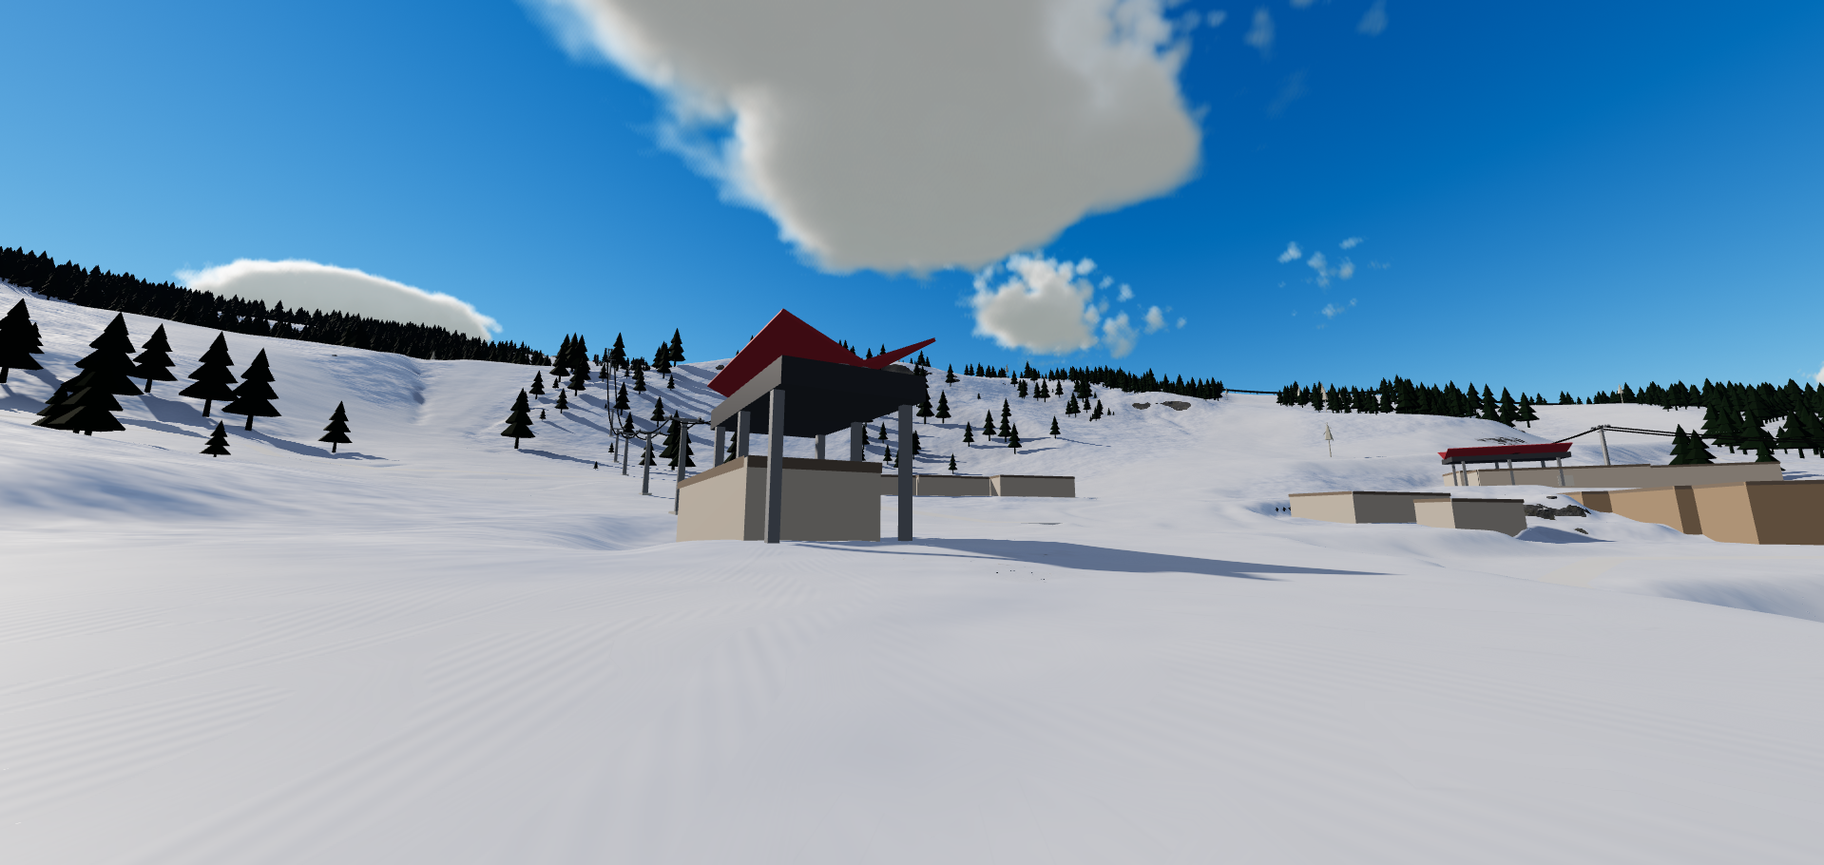
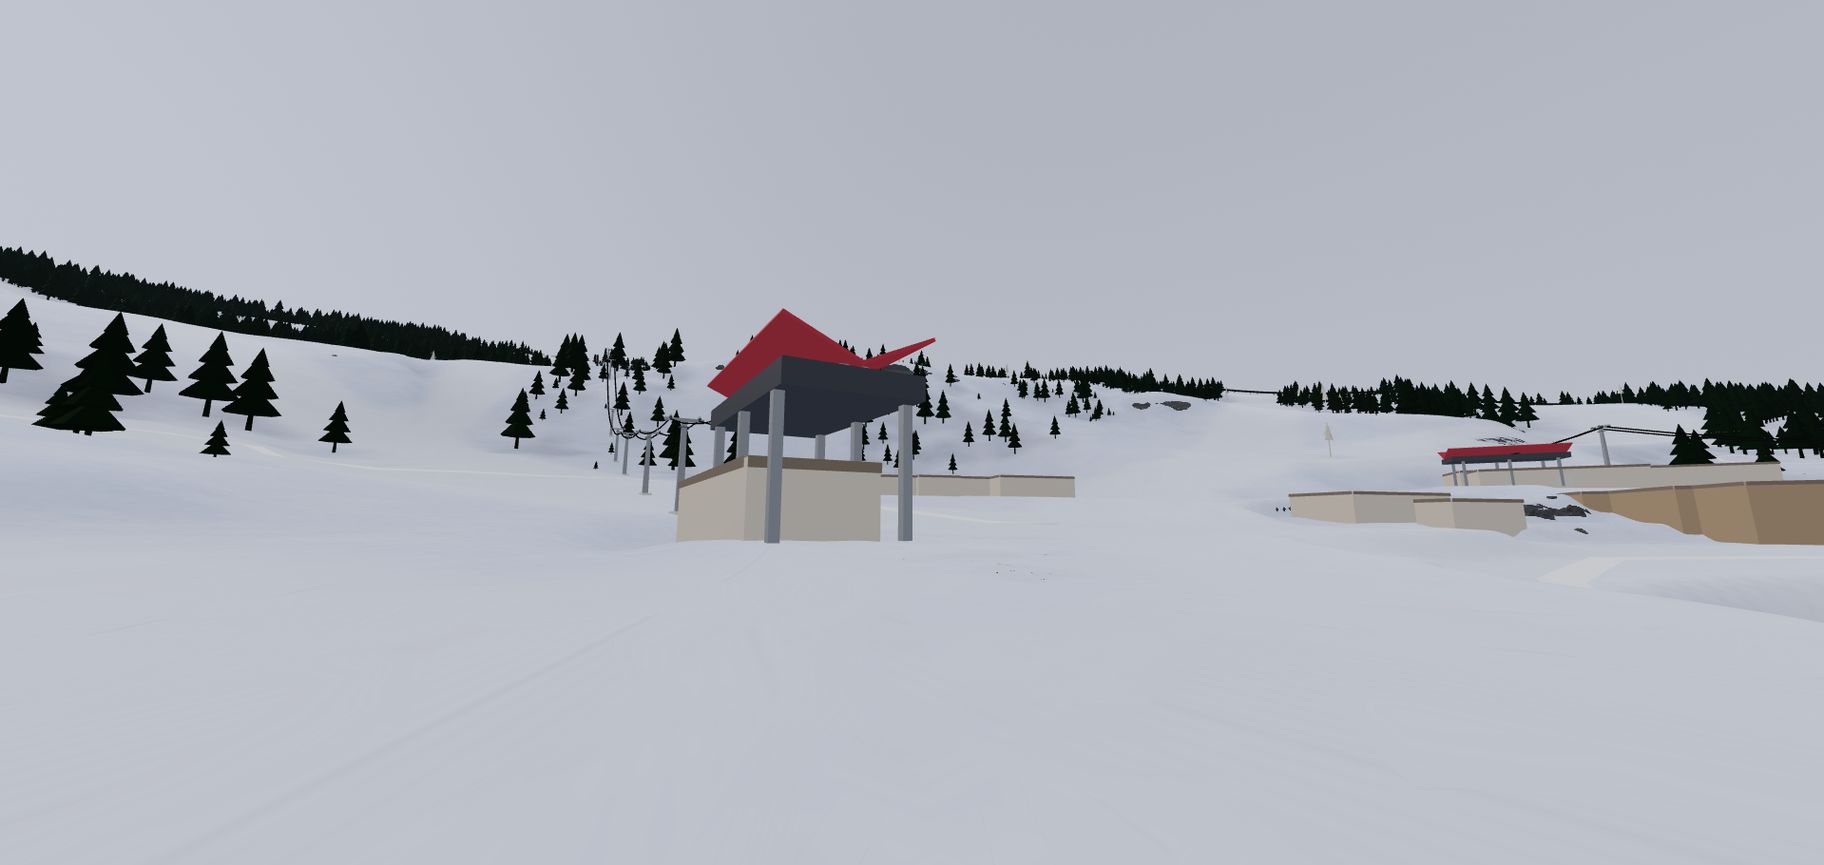
FEAT-078: overcast and light-snow weather presets for flat-light photo pairs
Weather gains "Overcast (flat light)" and "Overcast, light snow" (flurries).
Overcast draws a grey deck on the sky dome (no sun disc, faint glow where the
sun is), dims the sun to a fifth with shadow.intensity 0 (no recompile), turns
the hemisphere fill up and grey, flattens and roughens the snow (no sheen),
and thickens the haze in the deck's grey. Flurries adds a sixth of the storm's
flakes without its visibility cut.

?weather=<preset> overrides the setting for the session without saving it, and
shoot_spots.mjs applies a spot's or view's "weather" from spot.json through
__sim.setWeather. Mid-Vail and Yonder are tagged overcast, Mongolia and Prima
flurries, and re-shot: the Mid-Vail south view now measures sky (184,189,199)
vs the photo's (181,187,197) and snow (190,194,203) vs (190,195,206).

diff --git a/game/src/main.ts b/game/src/main.ts
@@ -4,7 +4,7 @@ import { Terrain } from './terrain/Terrain';
 import { Rider } from './sim/Rider';
 import { Collider } from './sim/Collider';
 import { Bridges } from './world/Bridges';
-import { Clouds } from './world/Clouds';
+import { Clouds, isOvercast, parseWeather, type CloudCover } from './world/Clouds';
 import { Snow } from './world/Snow';
 import { Controls } from './sim/Controls';
 import { Vegetation, setVegetationBudget, setVegetationDensity } from './world/Vegetation';
@@ -186,18 +186,28 @@ function runSession(pack: Pack, renderer: THREE.WebGLRenderer, canvas: HTMLCanva
       env.setSun(p.azimuth, Math.max(-5, p.elevation));
     };
     let sunClock = 0;
+    // ?weather=overcast (FEAT-078) and __sim.setWeather (shoot_spots.mjs, per spot) override the
+    // saved Weather setting for this session without saving it; picking a Weather in the menu clears it
+    let weatherOverride: CloudCover | null = parseWeather(params.get('weather'));
+    const initialWeather = weatherOverride;
 
     // ---------------------------------------------------------------- settings application
     const applySettings = (s: Settings, what: string): void => {
       applySun(s);
-      clouds.configure(s.clouds ?? 'scattered', s.quality);
-      env.setBluebird(s.clouds !== 'storm'); // deep blue sky behind the clouds too; only the storm is grey
-      const storm = s.clouds === 'storm';
+      if (what === 'clouds') weatherOverride = null;
+      const weather = weatherOverride ?? s.clouds ?? 'scattered';
+      clouds.configure(weather, s.quality);
+      const storm = weather === 'storm', overcast = isOvercast(weather);
+      env.setBluebird(!storm && !overcast); // deep blue sky behind the clouds too; storm and overcast are grey
       env.setStorm(storm);
-      terrain.setFlatLight(storm ? 1 : 0); // storm: flat light, the snow surface reads poorly
+      env.setOvercast(overcast);
+      // flat light: the snow surface reads poorly under a storm, a little less under overcast
+      terrain.setFlatLight(storm ? 1 : overcast ? 0.85 : 0);
       env.setValleyFog(!!s.valleyFog || params.has('valleyfog')); // ?valleyfog forces it on for render checks
-      snow.points.visible = storm;
-      snow.setCount(s.quality === 'high' ? 16000 : s.quality === 'medium' ? 9000 : 4500);
+      // falling snow: the storm, or light flurries under overcast (a sixth of the flakes, no visibility cut)
+      snow.points.visible = storm || weather === 'flurries';
+      const flakes = s.quality === 'high' ? 16000 : s.quality === 'medium' ? 9000 : 4500;
+      snow.setCount(storm ? flakes : Math.round(flakes / 6));
       // limited render distance in the storm: nothing past the fog is drawn
       cam.camera.far = storm ? 1200 : 300000; cam.camera.updateProjectionMatrix();
       audio.setVolumes(s.mute ? 0 : s.sfx, s.mute ? 0 : s.music);
@@ -222,7 +232,7 @@ function runSession(pack: Pack, renderer: THREE.WebGLRenderer, canvas: HTMLCanva
       if (!s.timeTrials) trial.cancel('Time trials off');
       refreshCourseFlags();
       rider.discipline = s.discipline;
-      labels.visible = s.showLabels && s.clouds !== 'storm'; // peaks are hidden in the storm
+      labels.visible = s.showLabels && !storm; // peaks are hidden in the storm
       map.metric = s.units === 'metric';
       if (what === 'camera' || what === 'reset') cam.mode = s.camera;
     };
@@ -542,7 +552,9 @@ function runSession(pack: Pack, renderer: THREE.WebGLRenderer, canvas: HTMLCanva
         (rider.onGround || rider.onFoot ? '' : ` &nbsp; AIR ${rider.airTime.toFixed(1)}s`) + (rider.crashed > 0 ? ' &nbsp; CRASH' : '') +
         `<br><span class="dim">${fps.toFixed(0)} fps &middot; ${terrain.stats.chunks} chunks &middot; ${(terrain.stats.triangles / 1000).toFixed(0)}k tris &middot; trees ${veg.stats.instances} &middot; cam ${cam.mode}` +
         ` &middot; pos ${rider.x.toFixed(0)}, ${rider.y.toFixed(0)}</span>`;
-      (window as any).__sim = { rider, riderView, terrain, pack, cam, veg, fps, map, liftRide, lifts, setSpawn, settings, bootprints, tracks, eyeAt };
+      (window as any).__sim = { rider, riderView, terrain, pack, cam, veg, fps, map, liftRide, lifts, setSpawn, settings, bootprints, tracks, eyeAt,
+        /** shoot_spots.mjs: a spot's weather, or null for the page's own (?weather= else the setting) */
+        setWeather: (w: string | null) => { weatherOverride = parseWeather(w) ?? initialWeather; applySettings(settings, 'weather'); } };
       if (!headless) requestAnimationFrame(frame);
     }
 

diff --git a/game/src/world/Atmosphere.ts b/game/src/world/Atmosphere.ts
@@ -89,6 +89,7 @@ uniform sampler2D uSkyView;
 uniform vec4 uAtmo[10];
 uniform vec3 uSunDisc;
 uniform vec2 uSunCos;
+uniform vec4 uDeck; // overcast: horizon grey (display), w = 1 when on
 varying vec3 vDir;
 ${ATMO_GLSL}
 void main() {
@@ -106,6 +107,14 @@ void main() {
   // at and below the horizon: exactly the colour the terrain fog converges to in this azimuth
   float k = exp(-max(rd.y, 0.0) * 30.0) * (1.0 - disc);
   gl_FragColor.rgb = mix(gl_FragColor.rgb, atmoHorizon(rd), k);
+  if (uDeck.w > 0.5) {
+    // overcast: a uniform grey deck, a little darker overhead, no sun disc, only a faint brighter
+    // patch where the sun is behind the cloud (kept off the horizon so distant ridges still meet it)
+    float up = max(rd.y, 0.0);
+    vec3 deck = uDeck.rgb * mix(1.0, 0.95, smoothstep(0.0, 0.8, up));
+    deck += uDeck.rgb * 0.07 * pow(max(dot(rd, s), 0.0), 4.0) * smoothstep(0.0, 0.25, up);
+    gl_FragColor.rgb = deck;
+  }
   gl_FragColor.rgb += (fract(sin(dot(gl_FragCoord.xy, vec2(12.9898, 78.233))) * 43758.5453) - 0.5) / 255.0;
 }`;
 
@@ -124,6 +133,10 @@ export interface AtmoState {
   stormColor: THREE.Color;
   /** morning valley fog layer on */
   valleyFog: boolean;
+  /** full overcast (FEAT-078): grey deck instead of the sky, greyer and denser haze */
+  overcast: boolean;
+  /** overcast deck colour at the horizon (display) */
+  deckColor: THREE.Color;
 }
 
 export class Atmosphere {
@@ -152,7 +165,7 @@ export class Atmosphere {
     this.lut.colorSpace = THREE.NoColorSpace;
     this.mat = new THREE.ShaderMaterial({
       vertexShader: skyVert, fragmentShader: skyFrag,
-      uniforms: { uSkyView: { value: this.lut }, uAtmo: ATMO_UNIFORM, uSunDisc: { value: new THREE.Vector3() }, uSunCos: { value: new THREE.Vector2(Math.cos(0.0085), Math.cos(0.0072)) } },
+      uniforms: { uSkyView: { value: this.lut }, uAtmo: ATMO_UNIFORM, uSunDisc: { value: new THREE.Vector3() }, uSunCos: { value: new THREE.Vector2(Math.cos(0.0085), Math.cos(0.0072)) }, uDeck: { value: new THREE.Vector4() } },
       side: THREE.BackSide, depthWrite: false,
     });
     this.sky = new THREE.Mesh(new THREE.BoxGeometry(1000, 1000, 1000), this.mat);
@@ -208,6 +221,7 @@ export class Atmosphere {
       if (i === 2) this.hazeLinear.setRGB(L[0], L[1], L[2]);
       toDisplay(L, st.exposure, D);
       if (st.storm) { D[0] = st.stormColor.r; D[1] = st.stormColor.g; D[2] = st.stormColor.b; }
+      else if (st.overcast) { D[0] = st.deckColor.r; D[1] = st.deckColor.g; D[2] = st.deckColor.b; }
       ATMO[8 + i * 4] = D[0]; ATMO[9 + i * 4] = D[1]; ATMO[10 + i * 4] = D[2];
       if (i === 2) this.hazeDisplay.setRGB(D[0], D[1], D[2]);
     }
@@ -216,6 +230,7 @@ export class Atmosphere {
     const hz = toDisplay([THREE.MathUtils.lerp(this.hazeLinear.r, hl * this.sunColor.r, 0.6), THREE.MathUtils.lerp(this.hazeLinear.g, hl * (0.5 + 0.5 * this.sunColor.g), 0.6), THREE.MathUtils.lerp(this.hazeLinear.b, hl * (0.4 + 0.6 * this.sunColor.b), 0.6)], st.exposure, [0, 0, 0]);
     ATMO[36] = hz[0]; ATMO[37] = hz[1]; ATMO[38] = hz[2]; ATMO[39] = 0.6;
 
+    (this.mat.uniforms.uDeck.value as THREE.Vector4).set(st.deckColor.r, st.deckColor.g, st.deckColor.b, st.overcast ? 1 : 0);
     if (st.storm) {
       // whiteout: uniform dense fog, visibility about 400 m, no air layer or valley structure
       ATMO[0] = 0.0103; ATMO[1] = 0; ATMO[2] = 0; ATMO[3] = 0;
@@ -225,6 +240,11 @@ export class Atmosphere {
     }
     // valley haze: about 35 km visibility scale at the valley floor, a tenth of that density 1 km up
     ATMO[0] = (st.bluebird ? 1 : 2) / 35000; ATMO[1] = 1 / 450; ATMO[2] = this.valleyY; ATMO[3] = 1.6;
+    if (st.overcast) {
+      // overcast: thicker, deeper haze in the deck's grey, so ridges a few km off go soft and grey
+      ATMO[0] = 5 / 35000; ATMO[1] = 1 / 1100;
+      ATMO[36] = st.deckColor.r; ATMO[37] = st.deckColor.g; ATMO[38] = st.deckColor.b; ATMO[39] = 1;
+    }
     // morning valley fog: a thick layer a hundred metres deep that burns off as the sun climbs
     const fog = st.valleyFog ? 0.15 + 0.85 * (1 - THREE.MathUtils.smoothstep(st.sunElevationDeg, 8, 40)) : 0;
     ATMO[32] = fog / 500; ATMO[33] = 1 / 100; ATMO[34] = this.valleyY + 150;

diff --git a/game/src/world/Sky.ts b/game/src/world/Sky.ts
@@ -63,7 +63,7 @@ export class Environment {
     this.disableCSM();
     this.csm = new CSM({ camera, parent: this.scene, cascades, maxFar: 1200, mode: 'practical', shadowMapSize: mapSize, shadowBias: -0.00015, lightDirection: this.sunDir.clone().negate(), lightIntensity: this.sun.intensity, lightMargin: 300, lightNear: 1, lightFar: 3000 });
     this.csm.fade = true;
-    for (const l of this.csm.lights) { l.shadow.normalBias = 0.5; l.color.copy(this.sun.color); }
+    for (const l of this.csm.lights) { l.shadow.normalBias = 0.5; l.shadow.intensity = this.sun.shadow.intensity; l.color.copy(this.sun.color); }
     for (const m of this.registered) this.setupCSM(m);
     this.csm.updateFrustums();
   }
@@ -105,6 +105,10 @@ export class Environment {
   storm = false;
   readonly stormDome = new THREE.Mesh(new THREE.SphereGeometry(1000, 24, 12), new THREE.MeshBasicMaterial({ side: THREE.BackSide, fog: true, depthWrite: false }));
   setStorm(on: boolean): void { this.storm = on; this.setSun(this.lastSun[0], this.lastSun[1]); }
+  /** overcast (FEAT-078): grey cloud deck, no sun disc, soft shadowless light, flat snow, more haze; the sky still reaches the horizon */
+  overcast = false;
+  setOvercast(on: boolean): void { this.overcast = on; this.setSun(this.lastSun[0], this.lastSun[1]); }
+  private readonly deckColor = new THREE.Color();
   /** morning valley fog layer (burns off as the sun climbs) */
   valleyFog = false;
   setValleyFog(on: boolean): void { this.valleyFog = on; this.setSun(this.lastSun[0], this.lastSun[1]); }
@@ -122,7 +126,9 @@ export class Environment {
     if (this.renderer) this.renderer.toneMappingExposure = exposure;
     const g = 0.35 + 0.55 * up;
     this.stormColor.setRGB(0.8 * g, 0.82 * g, 0.86 * g);
-    this.atmo.update({ sunDir: this.sunDir, sunElevationDeg: elevationDeg, exposure, bluebird: this.bluebird, storm: this.storm, stormColor: this.stormColor, valleyFog: this.valleyFog });
+    const gd = 0.3 + 0.7 * up;
+    this.deckColor.setRGB(0.72 * gd, 0.74 * gd, 0.78 * gd); // the Mid-Vail photo's sky, about sRGB (182, 187, 197)
+    this.atmo.update({ sunDir: this.sunDir, sunElevationDeg: elevationDeg, exposure, bluebird: this.bluebird, storm: this.storm, stormColor: this.stormColor, valleyFog: this.valleyFog, overcast: this.overcast && !this.storm, deckColor: this.deckColor });
     this.sun.color.copy(this.atmo.sunColor);
     if (this.csm) {
       this.csm.lightDirection.copy(this.sunDir).negate();
@@ -142,7 +148,17 @@ export class Environment {
       this.hemi.intensity = 0.5 + 0.9 * up;
       this.hemi.color.setRGB(0.86, 0.88, 0.92);
       (this.stormDome.material as THREE.MeshBasicMaterial).color.copy(this.stormColor);
+    } else if (this.overcast) {
+      // the deck diffuses the sun: a weak directional term keeps some form, the grey sky does the rest
+      this.sun.intensity *= 0.2;
+      if (this.csm) for (const l of this.csm.lights) l.intensity = this.sun.intensity;
+      this.hemi.intensity = 0.6 + 1.8 * up; // snow a shade brighter than the deck, as in the photos
+      this.hemi.color.setRGB(0.88, 0.9, 0.94);
     }
+    // overcast is shadowless; shadow.intensity avoids the shader recompiles a castShadow toggle causes
+    const shadow = this.overcast && !this.storm ? 0 : 1;
+    this.sun.shadow.intensity = shadow;
+    if (this.csm) for (const l of this.csm.lights) l.shadow.intensity = shadow;
   }
 
   /** Per frame: keep the sky box and storm dome around the camera. */

diff --git a/game/src/ui/Settings.ts b/game/src/ui/Settings.ts
@@ -21,7 +21,7 @@ export interface Settings {
   /** cascaded shadow maps (experimental, off by default: turned the terrain black on Drew's GPU); off = single shadow camera around the rider */
   csmExperimental: boolean;
   /** volumetric cloud cover */
-  clouds: 'off' | 'few' | 'scattered' | 'broken' | 'storm';
+  clouds: 'off' | 'few' | 'scattered' | 'broken' | 'overcast' | 'flurries' | 'storm';
   /** low morning fog lying in the valleys, burning off as the sun climbs */
   valleyFog: boolean;
   treeDensity: number; // 0.25 .. 1
@@ -127,7 +127,7 @@ export function renderPanel(host: HTMLElement, s: Settings, onChange: (s: Settin
       <div class="row"><label>Quality</label><select data-k="quality"><option value="high">High</option><option value="medium">Medium</option><option value="low">Low</option></select></div>
       <div class="row"><label>Shadows</label><input type="checkbox" data-k="shadows"></div>
       <div class="row"><label>Cascaded (beta)</label><input type="checkbox" data-k="csmExperimental"></div>
-      <div class="row"><label>Weather</label><select data-k="clouds"><option value="off">Bluebird (clear)</option><option value="few">Few clouds</option><option value="scattered">Scattered clouds</option><option value="broken">Broken clouds</option><option value="storm">Snowstorm</option></select></div>
+      <div class="row"><label>Weather</label><select data-k="clouds"><option value="off">Bluebird (clear)</option><option value="few">Few clouds</option><option value="scattered">Scattered clouds</option><option value="broken">Broken clouds</option><option value="overcast">Overcast (flat light)</option><option value="flurries">Overcast, light snow</option><option value="storm">Snowstorm</option></select></div>
       <div class="row"><label>Valley fog</label><input type="checkbox" data-k="valleyFog"></div>
       <div class="row"><label>Trees</label><input type="range" data-k="treeDensity" min="0.25" max="1" step="0.05"></div>
       <div class="row"><label>Resolution</label><input type="range" data-k="pixelRatio" min="0.5" max="2" step="0.25"></div>

diff --git a/game/src/world/Clouds.ts b/game/src/world/Clouds.ts
@@ -18,8 +18,17 @@ const BASE = 4700; // m above sea level, above every summit in the Colorado pack
 const TOP = 6300;
 const RADIUS = 250000; // composite dome, < camera far (300 km)
 
-export type CloudCover = 'off' | 'few' | 'scattered' | 'broken' | 'storm';
-const COVER: Record<CloudCover, number> = { off: 0, few: 0.22, scattered: 0.3, broken: 0.42, storm: 0 };
+export type CloudCover = 'off' | 'few' | 'scattered' | 'broken' | 'overcast' | 'flurries' | 'storm';
+const COVER: Record<CloudCover, number> = { off: 0, few: 0.22, scattered: 0.3, broken: 0.42, overcast: 0, flurries: 0, storm: 0 };
+export const CLOUD_COVERS = Object.keys(COVER) as CloudCover[];
+/** A ?weather= / spot.json value as a cover ('clear' is an alias for 'off'); null when unknown. */
+export function parseWeather(w: string | null | undefined): CloudCover | null {
+  if (!w) return null;
+  const v = w === 'clear' ? 'off' : w;
+  return (CLOUD_COVERS as string[]).includes(v) ? v as CloudCover : null;
+}
+/** Full overcast: the cloud deck is drawn by the sky dome (Atmosphere.ts), not ray marched. */
+export const isOvercast = (c: CloudCover): boolean => c === 'overcast' || c === 'flurries';
 
 // ------------------------------------------------------------------ noise textures (CPU, once)
 function rng(seed: number): () => number {
@@ -281,7 +290,7 @@ export class Clouds {
       this.march = m; this.quad.material = m; old.dispose();
     }
     this.march.uniforms.uCoverage.value = COVER[cover] ?? COVER.scattered;
-    this.mesh.visible = cover !== 'off' && cover !== 'storm'; // a storm is fog and falling snow instead
+    this.mesh.visible = COVER[cover] > 0; // a storm is fog and falling snow instead; overcast is the sky dome's grey deck
   }
 
   /**

diff --git a/game/src/terrain/TerrainMaterial.ts b/game/src/terrain/TerrainMaterial.ts
@@ -18,7 +18,7 @@ import { NOISE_GLSL, ROCK_GLSL, rockUniforms } from './rockShader';
  * off individual crystals (a random facet normal per 4 cm cell lights up when it lines up with the
  * half vector, fading out once cells shrink below a pixel); baked sky visibility from the pack (`ao`
  * attribute) darkens gullies, couloirs and cliff feet, and the canopy darkens the snow under trees.
- * `uFlat` (storm) flattens the snow relief and turns the glints off: flat light.
+ * `uFlat` (storm, overcast) flattens the snow relief, turns the glints off and roughens the snow: flat light.
  *
  * Rock and talus (FEAT-020): the vertex weights (imagery mask unioned with steep faces, wind-scoured
  * ridges and talus aprons from Terrain.build) are thresholds against multi-scale world-space noise,
@@ -241,7 +241,8 @@ export function createTerrainMaterial(): THREE.MeshStandardMaterial {
           reflectedLight.directDiffuse *= mix(1.0, aoT, 0.45);
         }`)
       .replace('#include <roughnessmap_fragment>', `
-        float roughnessFactor = roughness * 0.6 * wSnow + rockR * rockCov + screeR * screeCov;`);
+        // flat light: no sheen toward a sun hidden behind cloud, so the snow goes fully rough
+        float roughnessFactor = roughness * mix(0.6, 1.1, uFlat) * wSnow + rockR * rockCov + screeR * screeCov;`);
   };
   return mat;
 }

diff --git a/docs/compare/README.md b/docs/compare/README.md
@@ -31,6 +31,8 @@ cd game && npx vite build && node tools/shoot_spots.mjs vail china-bowl-north-ri
 
 This re-renders every view's `eye-<view>.png` headless at 1280x720 (`--size WxH` to change; the current shots are 1919x910 to match a full-width Street View window), using the saved `eye` pose if there is one, else the converted Street View pose. It waits until the terrain, mask and tree tiles have finished streaming, so shots have no half-built LOD skirts. Commit the new shots with the change that moved them, so the pair history follows the code.
 
+**Weather (FEAT-078):** set `"weather"` in `spot.json` (or on one view) to shoot the pair in the photo's light: `overcast` (grey deck, no sun, shadowless flat light, more haze), `flurries` (overcast with light snowfall), `storm`, or `clear` / `few` / `scattered` / `broken`. Spots without it use the game's default weather. The same values work as `&weather=` on an eye link, overriding the Weather setting for that session without saving it. Tagged so far: Mid-Vail and Yonder `overcast`, Mongolia and Prima `flurries`.
+
 ### Conventions
 
 - **Heading:** Street View headings are from true north; the game's `h` is from grid north (UTM). `gmaps2game.py` adds the grid convergence (about +0.85 degrees at Vail). `spot.json` keeps both: `heading` (true) and `h` (grid).
@@ -48,7 +50,7 @@ This re-renders every view's `eye-<view>.png` headless at 1280x720 (`--size WxH`
 - **Snow:** tone, texture (corduroy, tracks, sun cups, wind ripples), shading in shadow, edges of tracks (FEAT-047, BUG-021).
 - **Built things:** lift towers and terminals, buildings, signs, fences, bridges (BUG-022).
 - **Far view:** horizon peaks, haze, forest colour on distant ridges (FEAT-041, FEAT-052).
-- **Sky and light:** sky colour, clouds, sun direction for the capture time.
+- **Sky and light:** sky colour, clouds, sun direction for the capture time. Tag an overcast or snowy photo's `weather` in `spot.json` so the pair compares like for like.
 
 ## Spot index
 

diff --git a/docs/compare/vail/mid-vail-wildwood/notes.md b/docs/compare/vail/mid-vail-wildwood/notes.md
@@ -14,6 +14,6 @@ The compass is good: the Mountain Top Express terminal footprint's centre is at 
 2. **Dense spruce walls are missing (north, east).** Real: tall, snow-flocked spruce close on both sides of the loading area, framing the view down the valley. Game: a few small dark cones and open snow. -> BUG-023, FEAT-070
 3. **Mid-Vail area buildings (south-west):** the timber buildings beside the Wildwood terminal read as low grey boxes. -> FEAT-071 (#111)
 4. **Snow:** real is chopped up, packed and crowded around the lines; the game is fresh corduroy. Expected for a groomed area at opening; not a bug.
-5. **Sky:** overcast with light snow in the photo, clear in the game. Weather.
+5. **Sky:** overcast with light snow in the photo. Fixed by FEAT-078: the spot is shot with `weather: overcast` (grey deck, shadowless flat light). Measured on the south view: sky sRGB (184, 189, 199) game vs (181, 187, 197) photo, foreground snow (190, 194, 203) vs (190, 195, 206).
 
 A fifth Street View heading (196 degrees, 90y) was linked but not screenshotted; add it with `--spot mid-vail-wildwood/<id> --add` if a screenshot turns up.

diff --git a/docs/compare/vail/back-bowls-yonder/notes.md b/docs/compare/vail/back-bowls-yonder/notes.md
@@ -16,4 +16,4 @@ The pair also confirmed the FOV convention: the Maps `y` value is the vertical F
 2. **Far forest reads as snow (south-west, west, south-lift):** the real valley slopes below the ridge are near-black continuous forest. The game shows pale snow with a green speckle, so the valley loses its dark mass. Either the far tree density is too low or the far terrain colour does not darken under forest. -> BUG-023
 3. **Lone pines:** the real slopes have several broad, round-crowned lone pines (west and south-lift views, also north-east). The game only has narrow cones. -> FEAT-070
 4. **Snow surface:** real is tracked-out and chalky with ski tracks and sharp small shadows; the game foreground is smooth. -> FEAT-047, BUG-021 (known)
-5. **Sky:** overcast in the photo, clear in the game. Weather, not a bug.
+5. **Sky:** overcast in the photo. Fixed by FEAT-078: the spot is shot with `weather: overcast`.

diff --git a/docs/compare/vail/prima-browns-face/notes.md b/docs/compare/vail/prima-browns-face/notes.md
@@ -13,4 +13,4 @@ Real: Street View, Jan 2017, contributor Hongbin Zhuang, listed as "Vail Ski Res
 1. **Trees look like black cones.** Real: tall, narrow spruce heavily flocked with fresh snow, grey-white rather than dark. -> FEAT-070
 2. **Far forest too pale (north-east left, north-west right):** the real valley slopes are dense dark forest with grey aspen; the game shows pale snow with green specks. -> BUG-023
 3. **Snow surface:** real is chopped powder with soft bumps on a steep advanced slope; the game is smooth. -> FEAT-059 (moguls), FEAT-047
-4. **Sky:** overcast with snow in the photo, clear in the game. Weather.
+4. **Sky:** overcast with snow in the photo. Fixed by FEAT-078: the spot is shot with `weather: flurries`.

diff --git a/docs/compare/vail/mongolia-bowl/notes.md b/docs/compare/vail/mongolia-bowl/notes.md
@@ -10,4 +10,4 @@ Real: Street View, Feb 2014, contributor Krishna Vinod (links in spot.json). Sno
 
 ## What doesn't
 1. **Trees on the open slope:** the real slope has spruce clumps and lone trees scattered across it within 30 to 60 m, and a line of them along the slope (north-west, north-east). The pack has 0 trees within 30 m and 3 within 100 m. -> BUG-023
-2. **Weather:** heavy cloud and falling snow in the photo; clear in the game. A snowstorm setting would make this pair a closer match.
+2. **Weather:** heavy cloud and falling snow in the photo. Fixed by FEAT-078: the spot is shot with `weather: flurries` (overcast with light snowfall); the storm's 400 m visibility would hide the far ridges the photo still shows.
